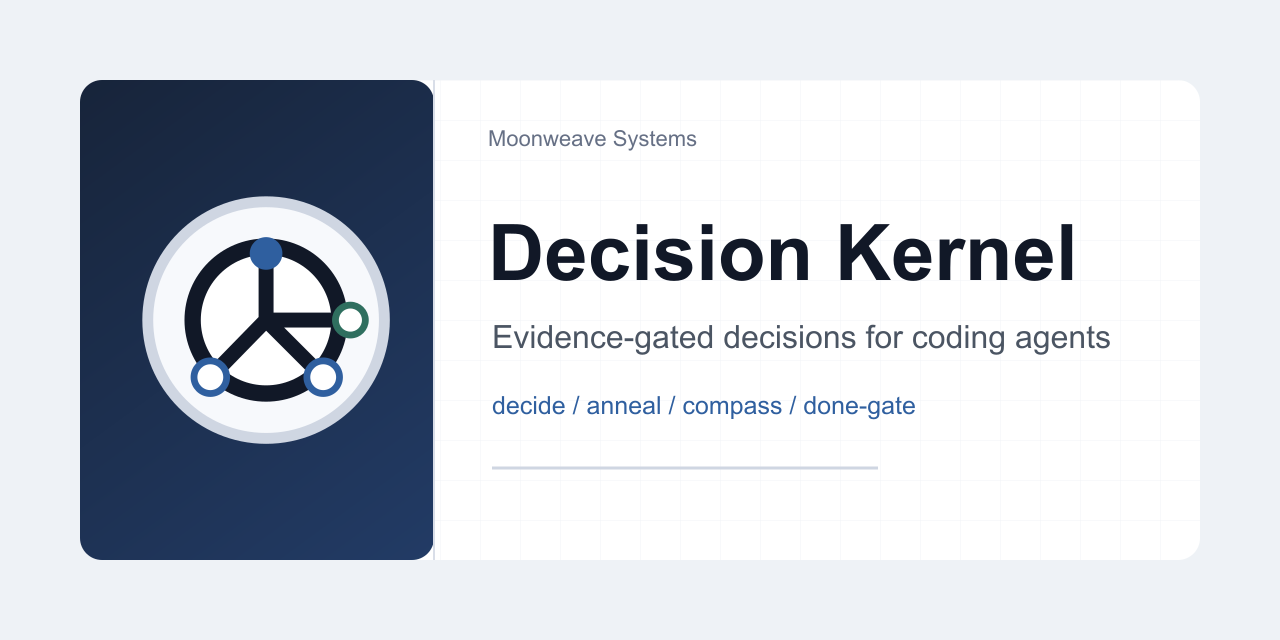
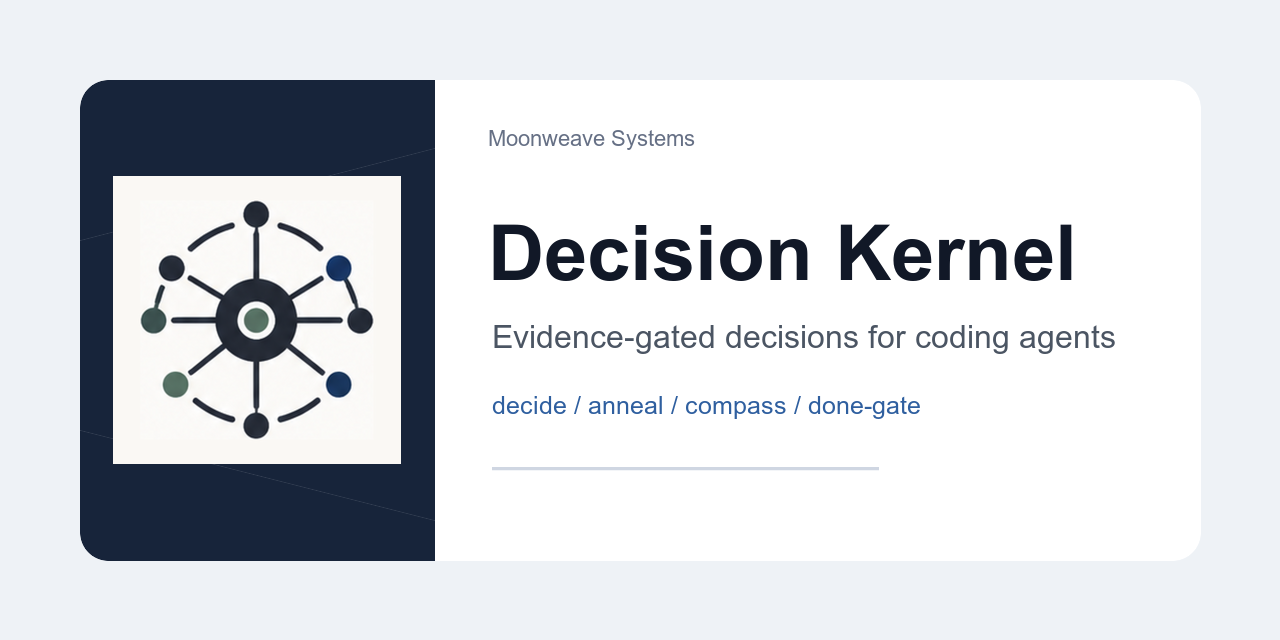
Use generated Decision Kernel identity assets

diff --git a/README.md b/README.md
@@ -1,6 +1,6 @@
 <div align="center">
 
-<img src=".github/assets/decision-kernel-mark.svg" alt="Decision Kernel mark" width="96">
+<img src=".github/assets/decision-kernel-mark-512.png" alt="Decision Kernel mark" width="96">
 
 # Decision Kernel
 